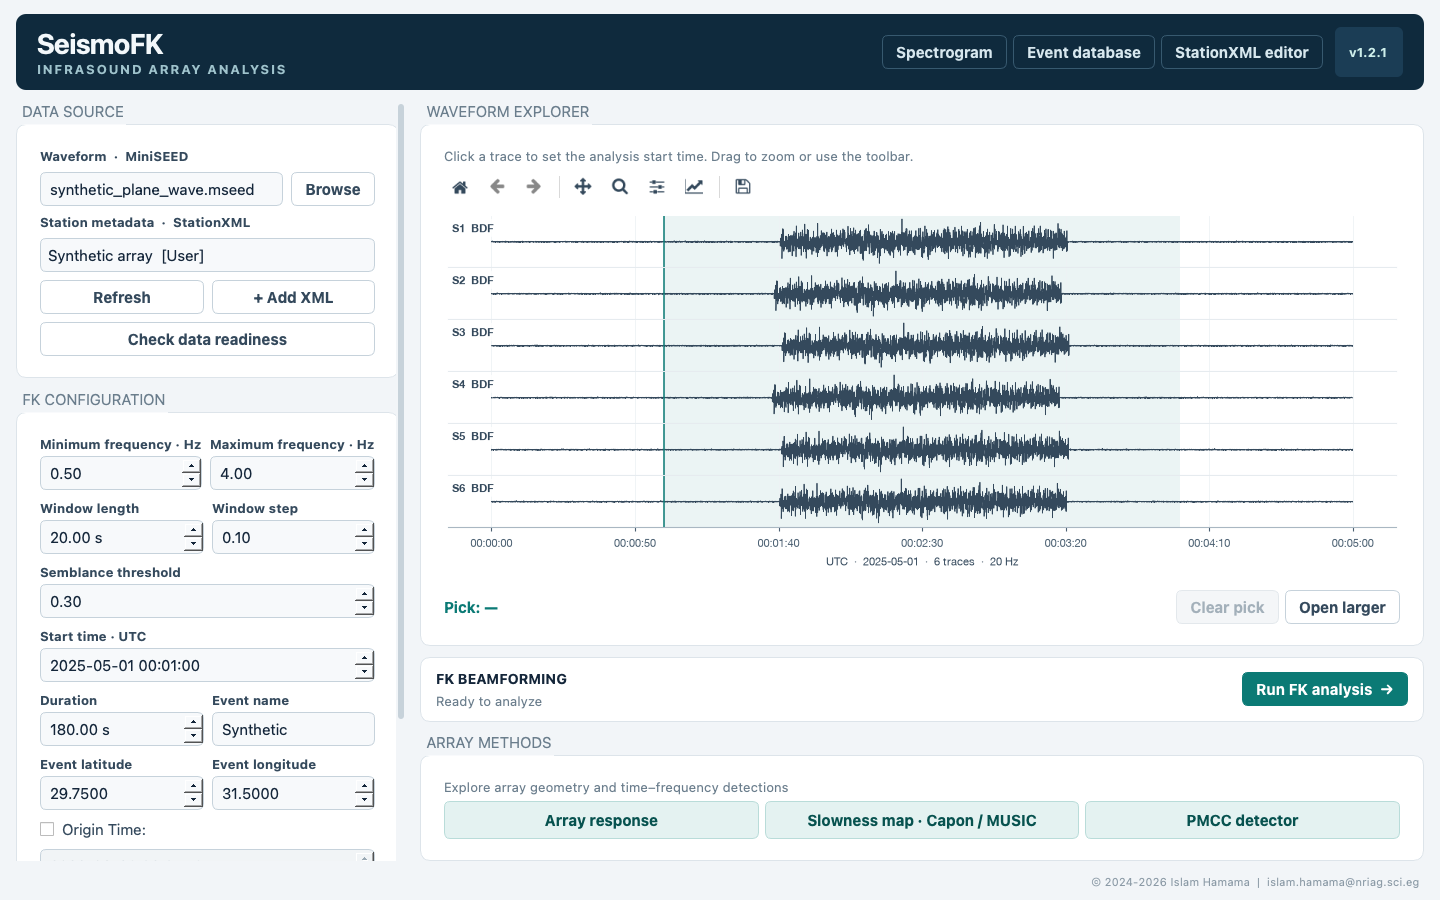
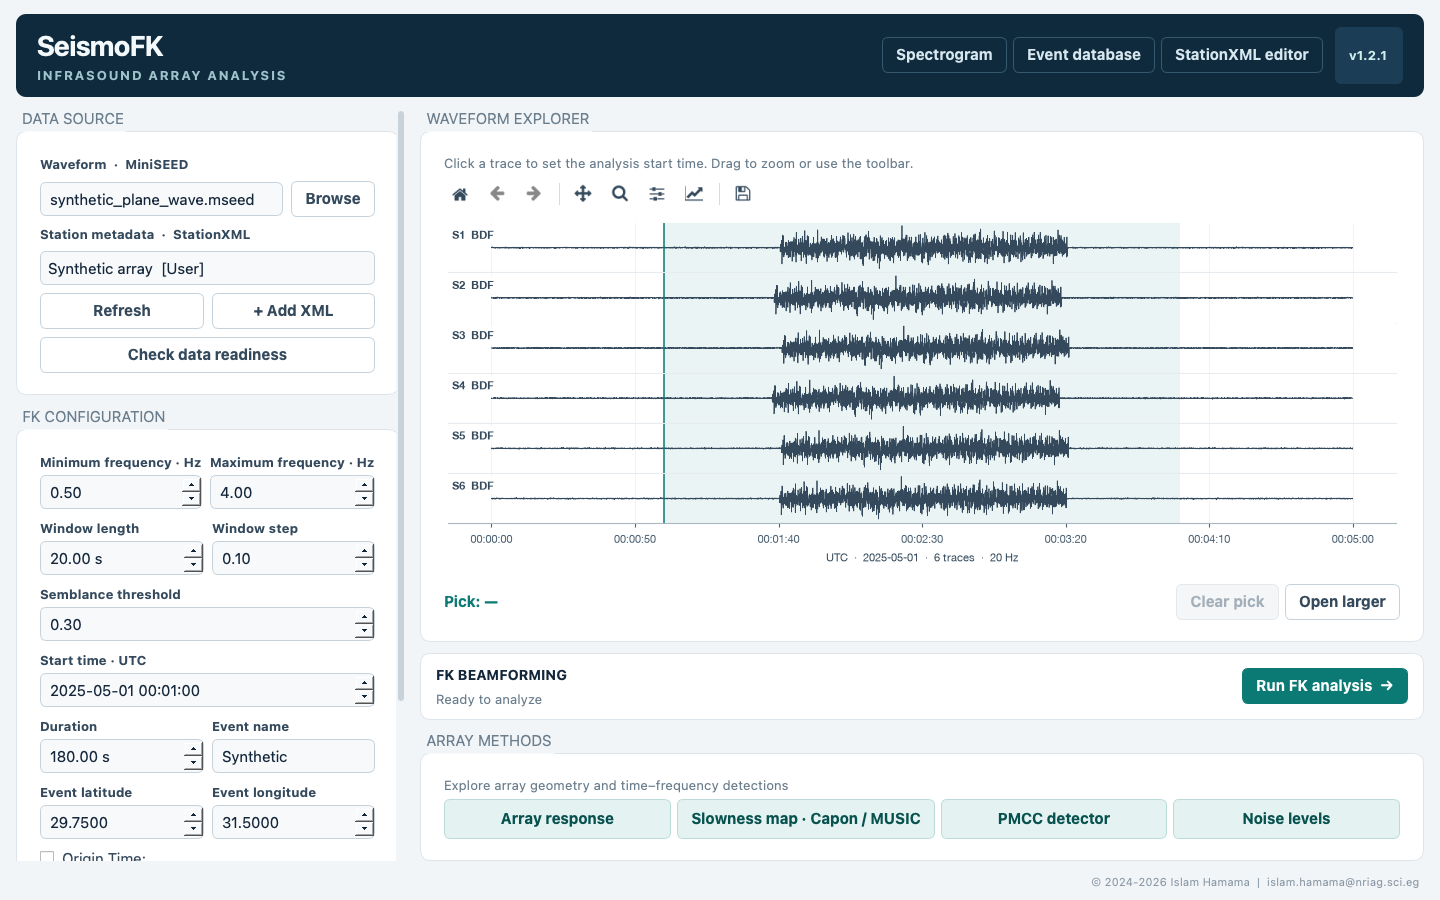
Refresh screenshots and README gallery for the v1.2.1 interface
Regenerate all screenshots from synthetic data in the new theme, add noise
levels and data readiness, and restyle the waveform picker plot.

diff --git a/Infra_Analysis.py b/Infra_Analysis.py
@@ -1155,19 +1155,34 @@ class WaveformViewer(QDialog):
         layout.addWidget(FooterWidget(self))
 
     def _draw_waveforms(self, stream, title="Waveforms"):
-        self.ax_wv.clear()
+        """Same style as the main waveform explorer: one ink colour, traces
+        stacked top to bottom with station labels, UTC time axis; x values
+        stay seconds from the first trace start (used by the click pick)."""
+        ax = self.ax_wv
+        ax.clear()
+        t0 = stream[0].stats.starttime
+        n = len(stream)
         for i, tr in enumerate(stream):
-            t    = tr.times()
-            norm = np.max(np.abs(tr.data)) or 1
-            self.ax_wv.plot(t, tr.data / norm + i, lw=0.7, label=tr.id)
-        self.ax_wv.set_xlabel("Time (s)")
-        self.ax_wv.set_ylabel("Norm. Amplitude + offset")
-        self.ax_wv.set_title(title)
-        self.ax_wv.legend(fontsize=7, loc='upper right')
-        self.ax_wv.grid(True, alpha=0.3)
+            x, y = _envelope(tr.data, tr.stats.delta,
+                             float(tr.stats.starttime - t0))
+            ax.plot(x, 0.45 * y / (np.max(np.abs(y)) or 1.0) + (n - 1 - i),
+                    color=PALETTE['ink_2'], lw=0.55)
+        ax.set_yticks(range(n))
+        ax.set_yticklabels([f"{tr.stats.station} {tr.stats.channel}"
+                            for tr in reversed(stream)], fontsize=8)
+        ax.set_ylim(-0.7, n - 0.3)
+        for side in ('top', 'right', 'left'):
+            ax.spines[side].set_visible(False)
+        ax.tick_params(axis='y', length=0)
+        ax.grid(axis='x', color='#eef2f5', lw=0.6)
+        ax.xaxis.set_major_formatter(
+            FuncFormatter(lambda x, _: (t0 + x).strftime('%H:%M:%S')))
+        ax.set_xlabel(f"UTC  ·  {t0.strftime('%Y-%m-%d')}", fontsize=8)
+        ax.set_title(title, loc='left', fontsize=10)
         if self.selected_time is not None:
-            rel = self.selected_time - stream[0].stats.starttime
-            self.ax_wv.axvline(rel, color='red', lw=1.4, ls='--', alpha=0.85)
+            ax.axvline(self.selected_time - t0, color=PALETTE['accent'],
+                       lw=1.4)
+        self.fig_wv.tight_layout(pad=0.6)
         self.canvas_wv.draw()
 
     def _on_click(self, event):

diff --git a/gui_methods.py b/gui_methods.py
@@ -183,7 +183,8 @@ class SlownessMapDialog(_MplDialog):
         self.nsrc_spin.setValue(1)
         self.controls.addWidget(self.nsrc_spin)
 
-        recompute = QPushButton("↻ Recompute")
+        recompute = QPushButton("Recompute")
+        recompute.setObjectName("primaryAction")
         recompute.clicked.connect(self._draw)
         self.controls.addWidget(recompute)
         self.controls.addStretch()

diff --git a/README.md b/README.md
@@ -136,20 +136,19 @@ SeismoFK is built primarily for **infrasound array monitoring** — for example,
 
 ## Screenshots
 
-| | | | |
-|:---:|:---:|:---:|:---:|
-| ![Main window](screenshots/01_main_window.png)<br>**Main analysis window** | ![XML Creator](screenshots/02_xml_creator.png)<br>**XML Creator / Editor** | ![Event Database](screenshots/03_event_database.png)<br>**Event Database** | ![Waveform viewer](screenshots/04_waveform_viewer.jpg)<br>**Waveform viewer & time-picker** |
-| ![Spectrogram window](screenshots/05_spectrogram.jpg)<br>**Spectrogram window** *(new)* | ![Event Database notes](screenshots/06_event_database_notes.jpg)<br>**Event Database — Note column** | ![Edit event dialog](screenshots/07_event_database_edit.jpg)<br>**Edit event dialog** | ![FK analysis result](screenshots/08_fk_result_artemis.png)<br>**FK result — Artemis II re-entry** |
+All screenshots show the v1.2.1 interface with synthetic data (a 120° / 340 m/s plane wave), except the Artemis II example.
 
-![PMCC-style detector on a synthetic 120° / 340 m/s plane wave](screenshots/09_pmcc_synthetic.png)
+| | |
+|:---:|:---:|
+| ![Main window](screenshots/01_main_window.png)<br>**Main window** | ![PMCC families](screenshots/09_pmcc_synthetic.png)<br>**PMCC detector with families** |
+| ![FK results](screenshots/12_results_window_synthetic.png)<br>**FK results with bootstrap 95% CI** | ![Noise levels](screenshots/14_noise_levels.png)<br>**Noise levels (dB re 20 µPa), sensor S5 flagged** |
+| ![Slowness map](screenshots/13_slowness_map_synthetic.png)<br>**Capon slowness map** | ![Spectrogram](screenshots/05_spectrogram.png)<br>**Spectrogram (Pa)** |
+| ![Waveform picker](screenshots/04_waveform_viewer.png)<br>**Waveform picker** | ![Data readiness](screenshots/15_data_readiness.png)<br>**Data readiness check** |
+| ![StationXML editor](screenshots/02_xml_creator.png)<br>**StationXML editor** | ![Event database](screenshots/03_event_database.png)<br>**Event database** |
+| ![Stored figure](screenshots/06_event_figure.png)<br>**Stored event figure** | ![Edit event](screenshots/07_event_database_edit.png)<br>**Edit event dialog** |
 
-![FK results window for a synthetic 120° / 340 m/s plane wave](screenshots/12_results_window_synthetic.png)
-
-![Capon slowness map for a synthetic 120° / 340 m/s plane wave](screenshots/13_slowness_map_synthetic.png)
-
-![Spectrogram of three synthetic channels in raw-count mode](screenshots/11_spectrogram_synthetic.png)
-
-*PMCC-style detector with synthetic test data: the plane-wave burst stands out above the grey noise windows, and the summary reports 119.2° and 339 m/s.*
+![FK analysis result for the Artemis II re-entry](screenshots/08_fk_result_artemis.png)
+*Real-data example: FK result for the Artemis II Orion re-entry at I57US (produced with v1.2.0).*
 
 ---
 
